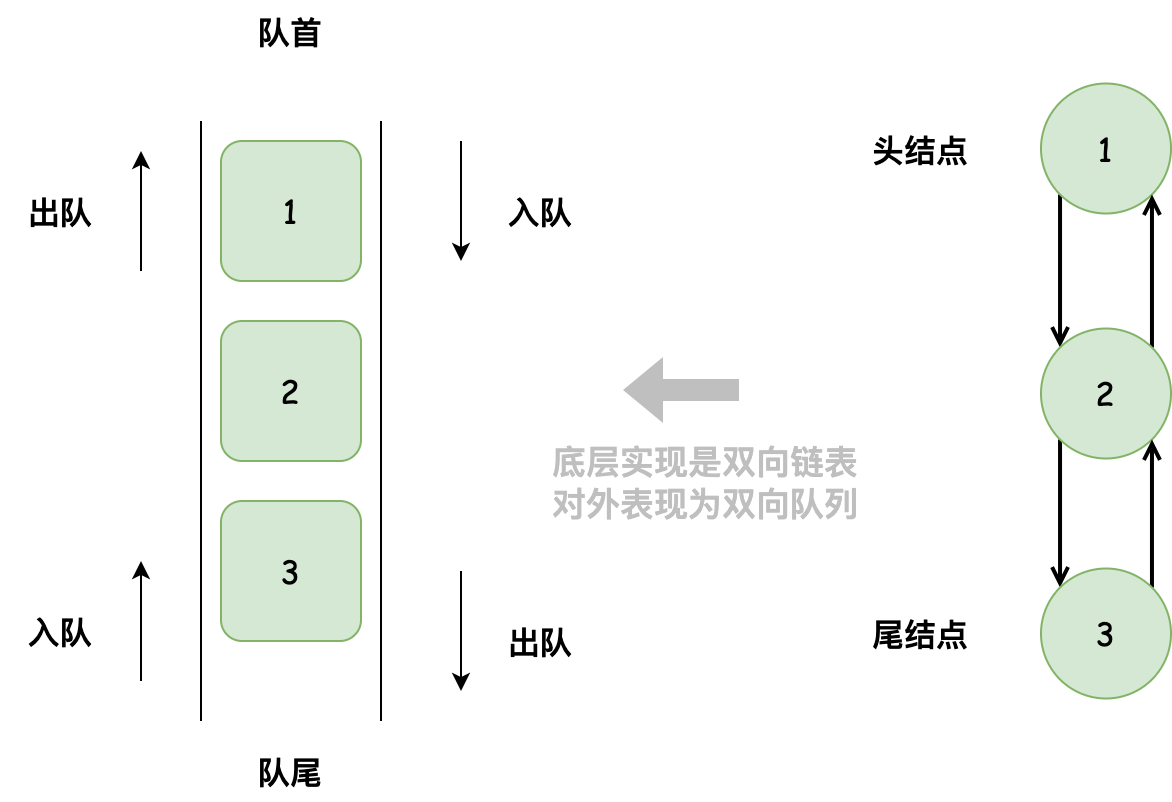
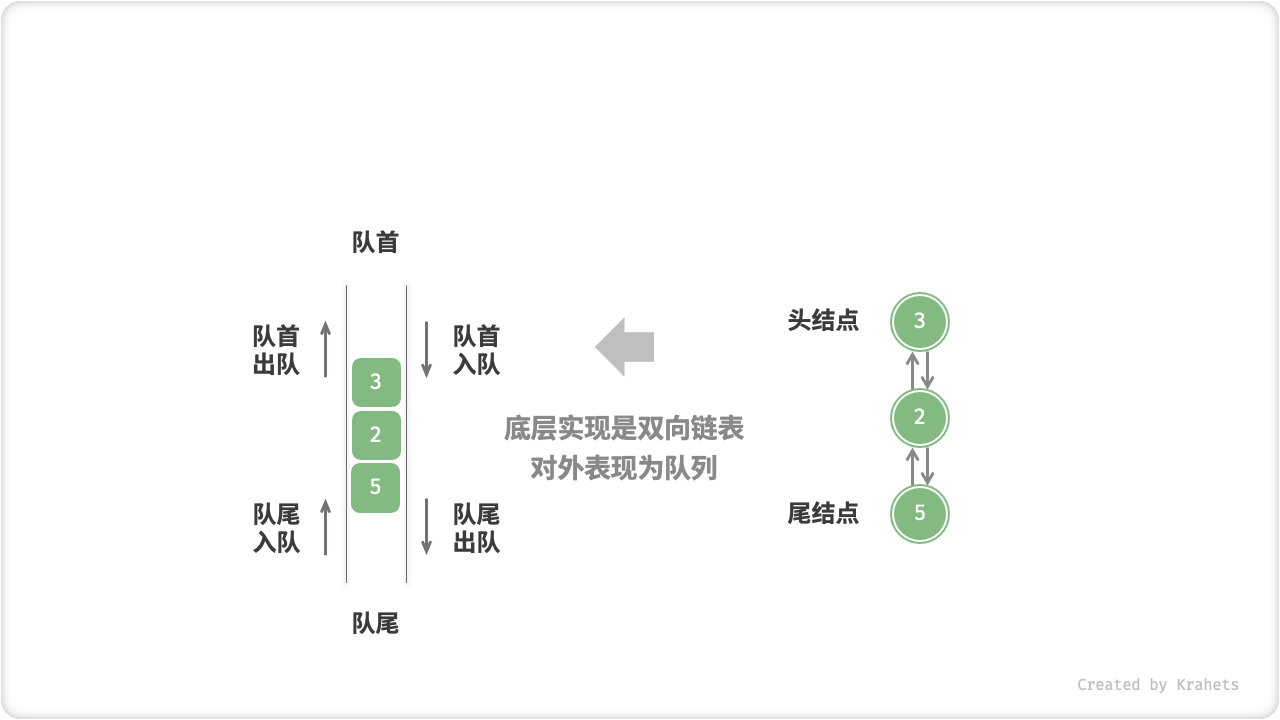
Update the figures and the content.

diff --git a/docs/chapter_stack_and_queue/deque.md b/docs/chapter_stack_and_queue/deque.md
@@ -225,26 +225,26 @@ comments: true
 
 ## 双向队列实现
 
-双向队列需要一种可以在两端添加、两端删除的数据结构，可以使用双向链表和数组来实现。
+双向队列需要一种可以在两端添加、两端删除的数据结构。与队列的实现方法类似，双向队列也可以使用双向链表和循环数组来实现。
 
 ### 基于双向链表的实现
 
-我们将双向链表的「头结点」和「尾结点」分别看作双向队列的队首和队尾，并且队首和队尾都能添加和删除结点。
+我们将双向链表的头结点和尾结点分别看作双向队列的队首和队尾，并且实现在两端都能添加与删除结点。
 
 === "LinkedListDeque"
     ![linkedlist_deque](deque.assets/linkedlist_deque.png)
 
-=== "offerFirst()"
-    ![linkedlist_deque_offer_first](deque.assets/linkedlist_deque_offer_first.png)
+=== "pushLast()"
+    ![linkedlist_deque_push_last](deque.assets/linkedlist_deque_push_last.png)
 
-=== "offerLast()"
-    ![linkedlist_deque_offer_last](deque.assets/linkedlist_deque_offer_last.png)
-
-=== "pollFirst()"
-    ![linkedlist_deque_poll_first](deque.assets/linkedlist_deque_poll_first.png)
+=== "pushFirst()"
+    ![linkedlist_deque_push_first](deque.assets/linkedlist_deque_push_first.png)
 
 === "pollLast()"
     ![linkedlist_deque_poll_last](deque.assets/linkedlist_deque_poll_last.png)
+
+=== "pollFirst()"
+    ![linkedlist_deque_poll_first](deque.assets/linkedlist_deque_poll_first.png)
 
 以下是使用双向链表实现双向队列的示例代码。
 
@@ -253,10 +253,9 @@ comments: true
     ```java title="linkedlist_deque.java"
     /* 双向链表结点 */
     class ListNode {
-    int val;       // 结点值
-    ListNode next; // 后继结点引用（指针）
-    ListNode prev; // 前驱结点引用（指针）
-    
+        int val;       // 结点值
+        ListNode next; // 后继结点引用（指针）
+        ListNode prev; // 前驱结点引用（指针）
         ListNode(int val) {
             this.val = val;
             prev = next = null;
@@ -367,26 +366,3 @@ comments: true
     
     }
     ```
-
-=== "C++"
-
-
-=== "Python"
-
-
-=== "Go"
-
-
-=== "JavaScript"
-
-
-=== "TypeScript"
-
-
-=== "C"
-
-
-=== "C#"
-
-
-=== "Swift"
